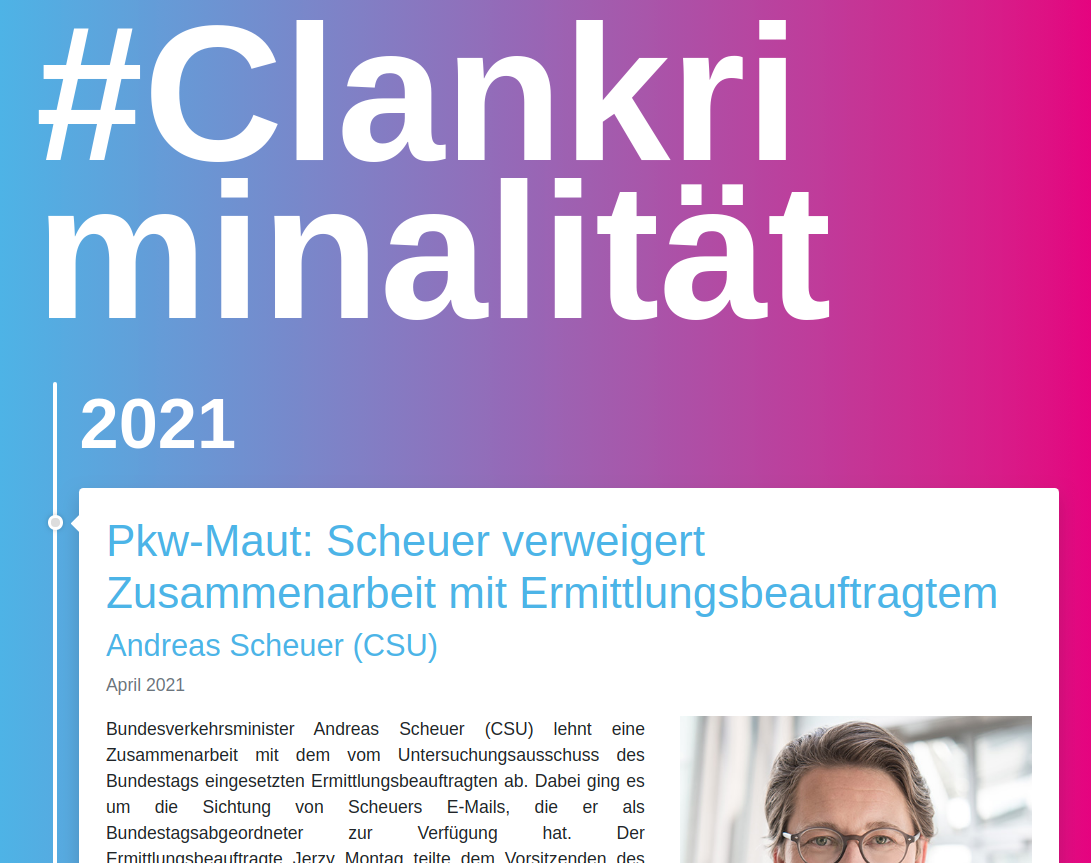
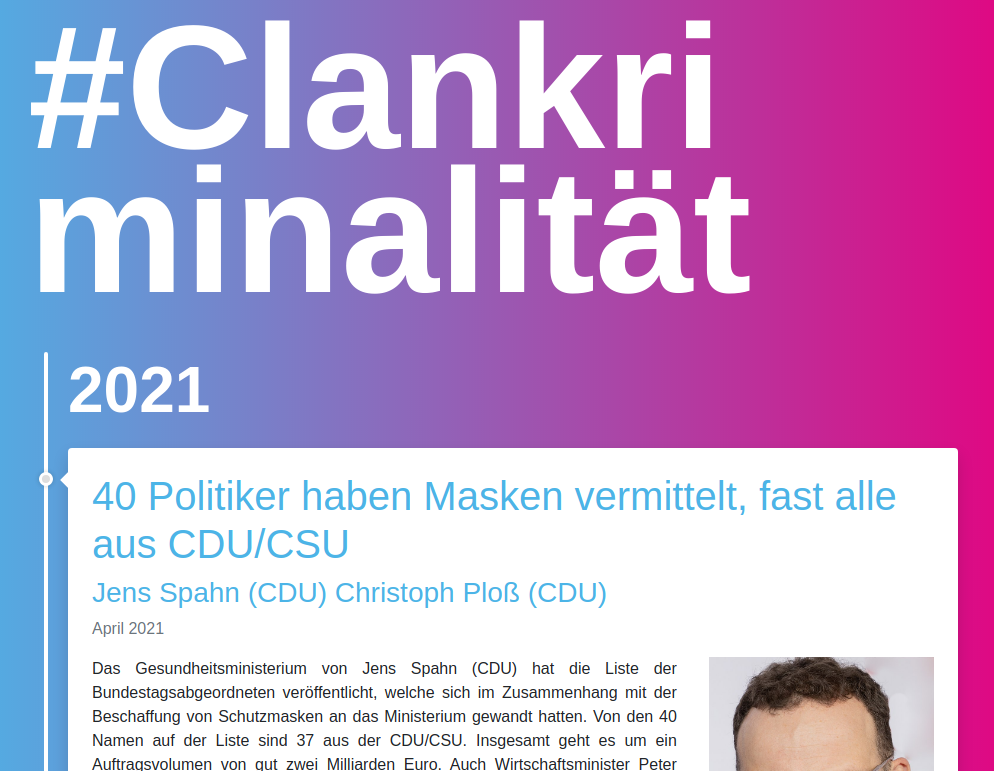
Add list of 40

Changed region(s): [[0.0312, 0.4358, 0.998, 1.0], [0.0312, 0.0, 0.7797, 0.4047]]

diff --git a/menschen/christoph-ploß-cdu.md b/menschen/christoph-ploß-cdu.md
@@ -1,0 +1,5 @@
+---
+layout: tags
+title: "Christoph Ploß (CDU)"
+tag: Christoph Ploß (CDU)
+---
